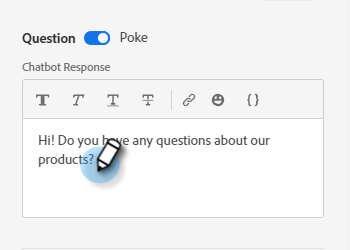
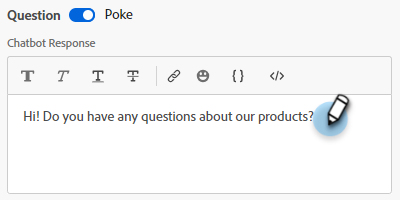
dynamic chat release stuff

diff --git a/help/marketo/release-notes/dynamic-chat.md b/help/marketo/release-notes/dynamic-chat.md
@@ -10,6 +10,68 @@ Adobe Dynamic Chat releases operate on a continuous delivery model which allows 
 
 The standard Release Notes page for Marketo Engage [can be found here](/help/marketo/release-notes/current.md){target="_blank"}.
 
+## August 2024 Release {#august-release}
+
+**Release date: August 23, 2024**
+
+### Custom format your conversation messages {#custom-format-conversation-messages}
+
+Stream designers now support [inserting HTML](/help/marketo/product-docs/demand-generation/dynamic-chat/automated-chat/stream-designer.md#create-a-stream){target="_blank"} to customize the look and feel of your conversations. 
+
+![](assets/dynamic-chat-aug-2024-release-1.png) 
+
+### Chatbot scroll to the bottom {#chatbot-scroll-to-bottom}
+
+An icon has been added in the chatbot for web visitors to jump straight to the last message. This helps visitors scrolling through the text to get back to the conversation quickly. 
+
+![](assets/dynamic-chat-aug-2024-release-2.png)
+
+### Core pulse notifications {#core-pulse-notifications}
+
+Users now get an [email notification](/help/marketo/product-docs/demand-generation/dynamic-chat/live-chat/live-chat-overview.md#failed-action-notifications){target="_blank"} when a meeting booking or live chat fails.
+
+![](assets/dynamic-chat-aug-2024-release-3.png)
+
+### Support for multiple conversations {#support-for-multiple-conversations}
+
+The chatbot now supports multiple conversations. Website visitors can engage in different conversations on different pages at the same time, with the ability to switch between them. 
+
+![](assets/dynamic-chat-aug-2024-release-4.png)
+
+### Default sorting for content {#default-sorting-for-content}
+ 
+By default, your conversation logs, unanswered questions, and question generation tables are sorted by created date (from most recent to oldest).
+
+### Real-time lead resolution {#real-time-lead-resolution}
+
+During a conversation with an anonymous lead and an email ID is provided, we resolve if a known lead record exists with that email ID, and use that record for personalization in real time. If we find multiple records, we merge them in real-time. This behavior is implemented for both Dialogues and Conversational Flows.
+
+### Syncing leads without cookies from Marketo Engage {#syncing-leads-without-cookies}
+
+Previously, when the Marketo Engage sync was activated, Dynamic Chat only synced known leads with one or more cookie IDs from Marketo Engage. Now, all known leads (cookie ID present or not) will be synced into Dynamic Chat and can be used for the personalization of conversations. 
+
+### Pass additional visitor data to Conversational Flows {#pass-additional-visitor-data} 
+
+If you're capturing visitor information through other channels like forms or login, you can now pass this information directly to Dynamic Chat.
+
+![](assets/dynamic-chat-aug-2024-release-5.png)
+
+### Refreshed inferred data {#refreshed-inferred-data}
+
+The majority of conversations on a website are with anonymous visitors. You can still target them through inferred data, which relies on visitors IPs. We've updated our database of IPs and respective inferred data which now supports four times more IPs.
+
+### Sound added to agent browser notification {#sound-added-to-agent-browser-notification}
+
+When a live chat is assigned to an agent, they get a browser notification. But occasionally they don't see them. We've added a notification sound to help prevent missed notifications going forward. 
+
+![](assets/dynamic-chat-aug-2024-release-6.png)
+
+### Ability to update lead profile during live chat {#update-lead-profile-during-live-chat}
+
+During a live chat, agents want to capture information about the visitor and update the respective profile. There is now an option to update attribute values of lead and company objects. 
+
+![](assets/dynamic-chat-aug-2024-release-7.png)
+
 ## June 2024 Release {#june-release}
 
 **Release date: June 6, 2024**

diff --git a/help/marketo/product-docs/demand-generation/dynamic-chat/live-chat/live-chat-overview.md b/help/marketo/product-docs/demand-generation/dynamic-chat/live-chat/live-chat-overview.md
@@ -99,6 +99,12 @@ When a live chat is routed to an agent, they'll see a blue banner across the top
 >* Enable browser notifications in [Google Chrome](https://support.google.com/chrome/answer/3220216?hl=en&co=GENIE.Platform%3DDesktop){target="_blank"}
 >* Enable browser notifications in [Mozilla Firefox](https://support.mozilla.org/en-US/kb/push-notifications-firefox){target="_blank"}
 
+### Failed Action Notifications {#failed-action-notifications}
+
+When an action such as a meeting booking or a live chat fails, users are notified via email.
+
+   ![](assets/live-chat-overview-6.png)
+
 ### Things to Note {#things-to-note}
 
 * Agents have 45 seconds to respond before the "Accept chat" message times out. After that, visitors will receive the [fallback message](/help/marketo/product-docs/demand-generation/dynamic-chat/setup-and-configuration/agent-management.md#live-chat-fallback){target="_blank"}. For Dynamic Chat Prime subscribers who have the routing option set to **Team**, one more agent will be tried before the fallback message appears.

diff --git a/help/marketo/product-docs/demand-generation/dynamic-chat/automated-chat/stream-designer.md b/help/marketo/product-docs/demand-generation/dynamic-chat/automated-chat/stream-designer.md
@@ -113,7 +113,11 @@ You can create streams for Dialogues or [Conversational Forms](/help/marketo/pro
 
    >[!TIP]
    >
-   >You can personalize the experience for known chat visitors by using tokens (ex: Hello `{{lead.leadFirstName:""}}`). Simply click the curly bracket icon on the right and make your selection. Add a default value between the quotes if you want anonymous visitors to see something generic (ex: Hello `{{lead.leadFirstName:"there"}}`).
+   >You can customize the experience for chat visitors!
+   >
+   >* Click the "insert HTML" icon `</>` to insert your own HTML for the desired look and feel of the conversation.
+   >
+   >* Use tokens for known chat visitors to personalize their experience (ex: Hello `{{lead.leadFirstName:""}}`). Click the curly bracket icon `{}` and make your selection. Add a default value between the quotes if you want anonymous visitors to see something generic (ex: Hello `{{lead.leadFirstName:"there"}}`).
 
    >[!NOTE]
    >

diff --git a/help/marketo/product-docs/demand-generation/dynamic-chat/meeting-list.md b/help/marketo/product-docs/demand-generation/dynamic-chat/meeting-list.md
@@ -13,3 +13,10 @@ This is where you'll see all of the appointments that have been scheduled by web
 >[!NOTE]
 >
 >When a meeting is booked on an agent's calendar, the agent will receive an email notification about the booking, including detailed information about the visitor's Dynamic Chat engagement.
+
+## Failed Action Notifications {#failed-action-notifications}
+
+When an action such as a meeting booking or a live chat fails, users are notified via email.
+
+   ![](assets/meeting-list-2.png)
+   
